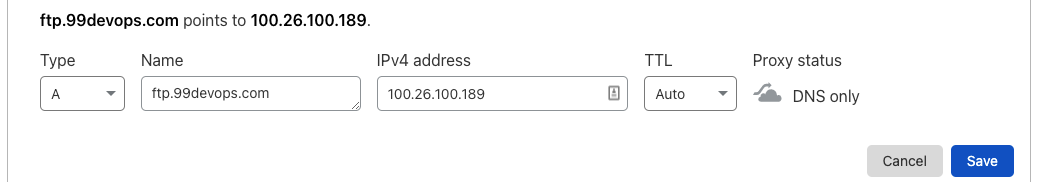
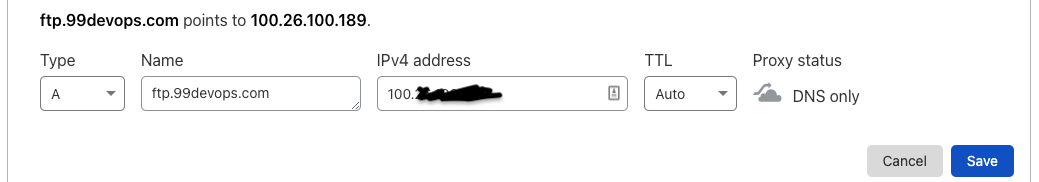
FTPS

Changed region(s): [[0.4004, 0.467, 0.4928, 0.5769]]

diff --git a/content/posts/ftps.md b/content/posts/ftps.md
@@ -151,7 +151,7 @@ connect_from_port_20=YES
 ftp_data_port=20
 
 pasv_enable=Yes
-pasv_address=100.26.100.189
+pasv_address=100.XX.XX.XX
 pasv_promiscuous=YES
 pasv_min_port=10000
 pasv_max_port=10100
@@ -215,7 +215,7 @@ Enter password and you should be able to access server via FTP
 On the logs you should see something like this
 
 ```
-Status:      	Connecting to 100.26.100.189:21...
+Status:      	Connecting to 100.[REDACTED_IP]:21...
 Status:      	Connection established, waiting for welcome message...
 Status:      	Initializing TLS...
 Status:      	Verifying certificate...
